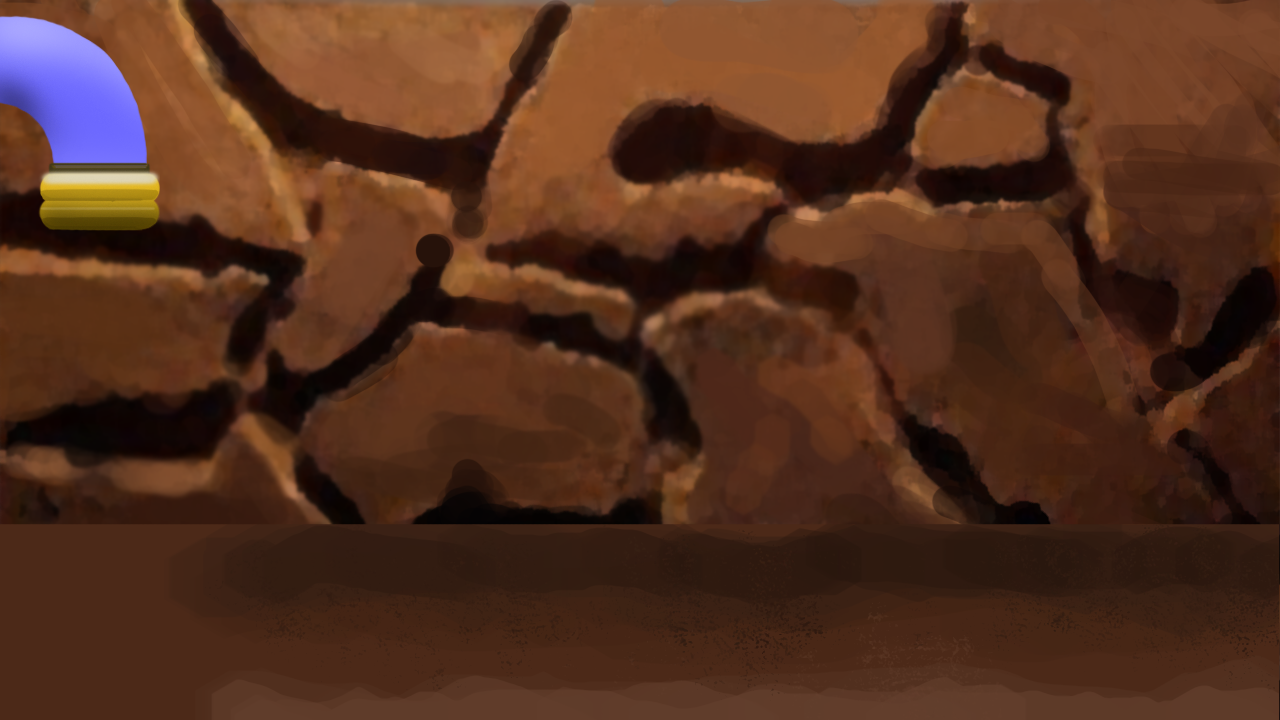
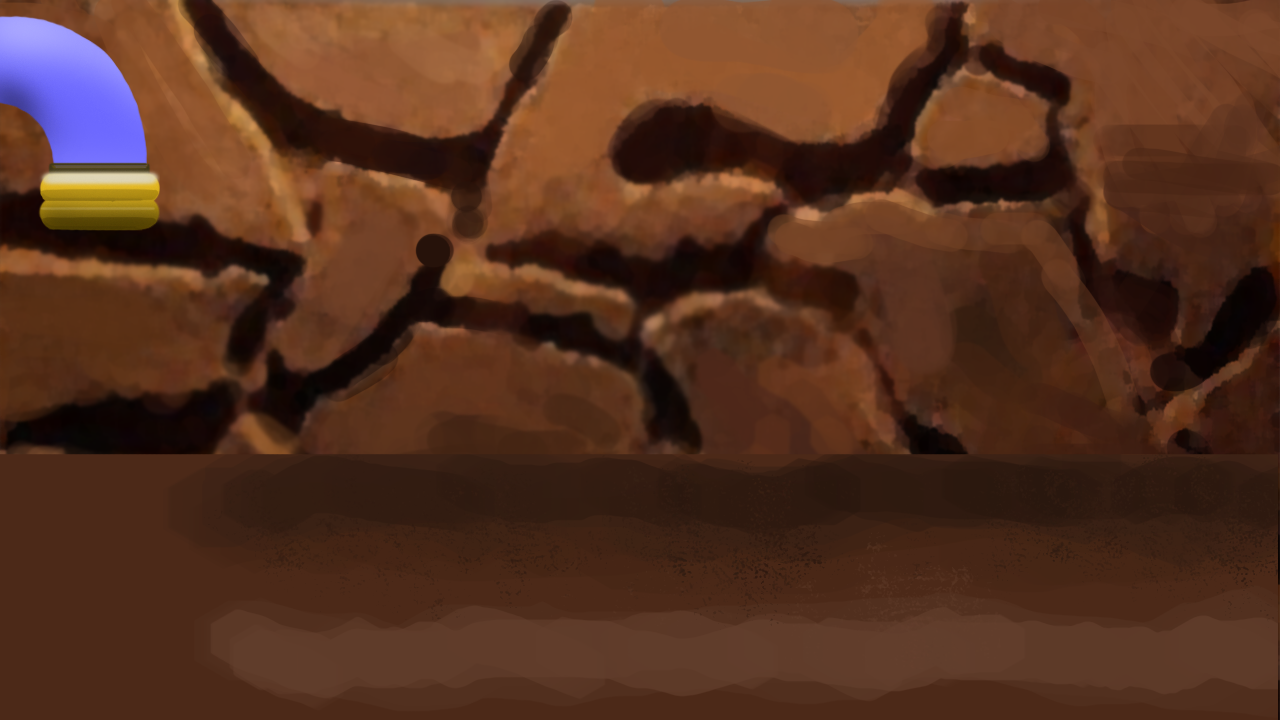
This is a comment...

Changed region(s): [[0.0, 0.6111, 1.0, 0.9472], [0.9375, 0.6111, 1.0, 0.7333]]

diff --git a/Greg testing Level select/level screen tests css.html b/Greg testing Level select/level screen tests css.html
@@ -335,29 +335,28 @@ function testCollision(objectA, objectB){
            <p id="turnDisplay">Turns Used: 0</p>
            <p id="scoreDisplay">Score Reduction: Example...</p>
         </div>
-        <button id="options" onclick="window.location.href='../Test%20for%20option/optiontest/options.html'" onmousedown="click_Button()" >options</button>
             <!--got this to work-->
-            <div id="hose" ondragover="dragStart(event)" ondrop="fillBucket('../rsc/bucketwater.png')">
+            <div id="hose" ondragover="dragStart(event)" ondrop="fillBucket('../artwork/bucketwater.png')">
             <img src="../ArtWork/hose.png" id="hoseImg" height="162" width="218"></div>
-            <div id="waterBox" ondragover="dragStart(event)" ondrop="fillBucket('../rsc/bucketwater.png')">
+            <div id="waterBox" ondragover="dragStart(event)" ondrop="fillBucket('../artwork/bucketwater.png')">
             <img src="../artwork/water_run.gif" id="waterFall" height="192" width="97">
             </div>
             <!--works-->
-            <div id="drainBox" ondragover="dragStart(event)" ondrop="emptyBucket('../rsc/bucketempty.png')">
+            <div id="drainBox" ondragover="dragStart(event)" ondrop="emptyBucket('../artwork/bucketempty.png')">
                 <p>Empty</p>
             </div>
         <div id="buckets">
-            <div id="bucket1" draggable="true" ondragstart="drag(event)" ondragover="dragStart(event)" ondrop="moveWater('../rsc/bucketempty.png', '../rsc/bucketwater.png')">
+            <div id="bucket1" draggable="true" ondragstart="drag(event)" ondragover="dragStart(event)" ondrop="moveWater('../artwork/bucketempty.png', '../artwork/bucketwater.png')">
                 <label id="bucketone" for="bucket1"><span id="bucketnumchange">0</span>/<span id="bucketnummax">7</span></label>
                 <img id="bucketNum1" alt="Bucket1" src="../rsc/bucketempty.png" height="128" width="128">
             </div>
-            <div id="bucket2" draggable="true" ondragstart="drag2(event)" ondragover="dragStart(event)" ondrop="moveWater('../rsc/bucketempty.png', '../rsc/bucketwater.png')">
+            <div id="bucket2" draggable="true" ondragstart="drag2(event)" ondragover="dragStart(event)" ondrop="moveWater('../artwork/bucketempty.png', '../artwork/bucketwater.png')">
                 <label id="buckettwo"  for="bucket2"><span id="bucketnumchange2">0</span>/<span id="bucketnummax2">9</span></label>
                 <img id="bucketNum2" alt="Bucket2" src="../rsc/bucketempty.png" height="128" width="128">
             </div>
         </div>
         <div id="tunnelImg"><img src=../artwork/ant_tunnel.png id="tunnelImg" width="1280px" height="357"></div>
-        <div id="tunnel"> <img src=../ArtWork/ant_tunnel_back.png id="tunnelBackground" width="1280" height="268">
+        <div id="tunnel"> <img src=../artwork/ant_tunnel_back.png id="tunnelBackground" width="1280" height="268">
             <div id="timer">
                 <img id="wave" src="../artwork/long_wave.gif" alt="Wave" width= "400px" height= "75px">
                 <div id="ants">

diff --git a/Greg testing Level select/test.css b/Greg testing Level select/test.css
@@ -1,35 +1,33 @@
 body {
-    background-color: aqua;
+    background-color: darkblue;
     z-index: 2;
 }
 #gameBox{
     background: url("../artwork/level_back.png");
     background-repeat: no-repeat;
     background-size: 100% 100%;
-    border: 6px inset lightyellow;
     position: fixed;
-    top: 8%;
-    left: 10%;
-    height: 80%;
-    width: 80%;  
+    top: 0;
+    left: 0;
+    height: 100%;
+    width: 100%;  
     z-index: 2;
 }
 #quit{
     position: fixed;
-    top: 11%;
-    left: 12%;
+    top: 2.5%;
+    right: 2.5%;
     background-color: darkblue;
     border-radius: 11%;
     border-top: 3px solid blue;
     border-bottom: 3px solid black;
     border-left: 3px solid blue;
     border-right: 3px solid black;
-    box-shadow: 5px 5px 15px #888888;
     color: lightblue;
     font-family: 'Arial Black';
     font-size: 99%;
-    padding-top: 1%;
-    padding-bottom: 1%;
+    padding-top: 0.5%;
+    padding-bottom: 0.5%;
     padding-left: 2%;
     padding-right: 2%;  
    
@@ -38,33 +36,7 @@ body {
     border: 3px solid yellow;
     color: yellow;
     cursor: pointer;  
-    font-size: 100%;
-    font-weight: bold;
-}
-#options{
-    position: fixed;
-    top: 11%;
-    right: 11%;
-    background-color: darkblue;
-    border-radius: 11%;
-    border-top: 3px solid blue;
-    border-bottom: 3px solid black;
-    border-left: 3px solid blue;
-    border-right: 3px solid black;
-    box-shadow: 5px 5px 15px #888888;
-    color: lightblue;
-    font-family: 'Arial Black';
-    font-size: 99%;
-    padding-top: 1%;
-    padding-bottom: 1%;
-    padding-left: 2%;
-    padding-right: 2%;    
-}
-#options:hover {
-    border: 3px solid yellow;
-    color: yellow;
-    cursor: pointer;  
-    font-size: 100%;
+    font-size: 150%;
     font-weight: bold;
 }
 #buckets {

diff --git a/ヽ༼ຈل͜ຈ༽ﾉ/level.html b/ヽ༼ຈل͜ຈ༽ﾉ/level.html
@@ -8,7 +8,7 @@
             body {
                 background-color: darkblue;
             }
-            #site_wrap {
+            #header {
                 background-image: url("../rsc/splash.png");
                 background-position: 5% 45%;
                 background-repeat: no-repeat;
@@ -45,7 +45,7 @@
         </style>
     </head>
     <body>
-        <div id="site_wrap"></div>
-        <iframe id="fram_g" src="Functions test.html"></iframe>
+        <div id="header"></div>
+        <iframe id="fram_g" src="level%20screen%20tests%20css.html"></iframe>
     </body>
 </html>
